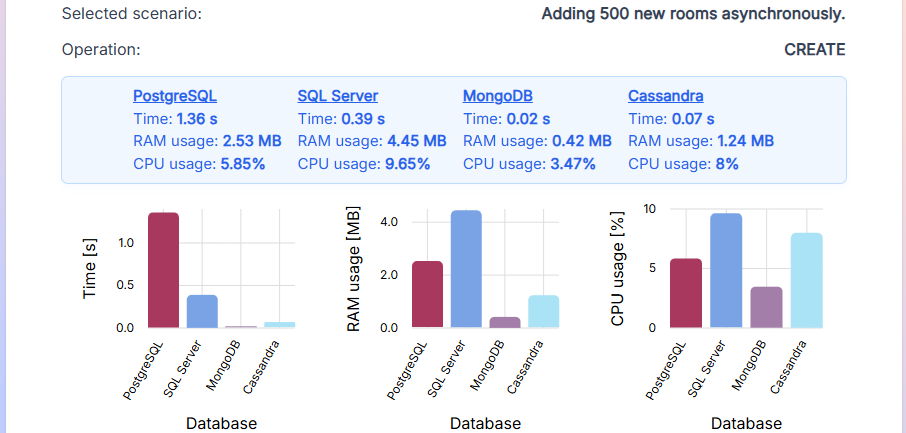
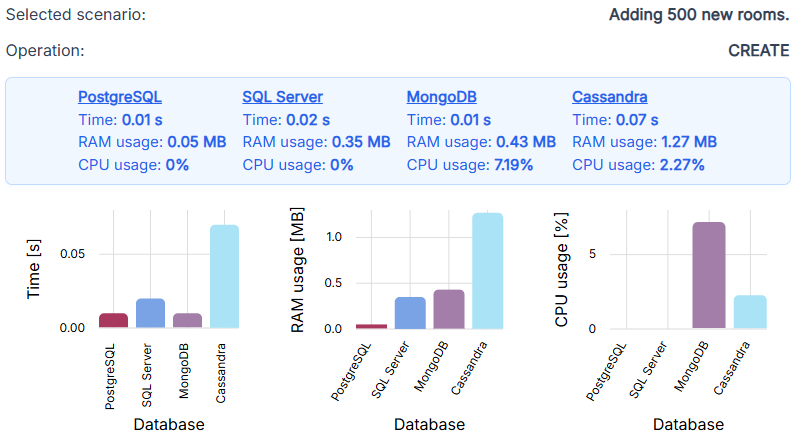
Results.

diff --git a/DBSystemComparator-API/Repositories/Implementations/SQLServerRepository.cs b/DBSystemComparator-API/Repositories/Implementations/SQLServerRepository.cs
@@ -75,28 +75,24 @@ namespace DBSystemComparator_API.Repositories.Implementations
 
         public async Task<List<int>> CreateClientsAsync(string firstName, string secondName, string lastName, string email, DateTime dob, string address, string phone, bool isActive, int count)
         {
-            var tasks = new List<Task<int>>();
-
+            var clients = new List<(string firstName, string secondName, string lastName, string email, DateTime dob, string address, string phone, bool isActive)>();
             for (int i = 0; i < count; i++)
             {
-                tasks.Add(CreateClientAsync(firstName, secondName, lastName, email, dob, address, phone, isActive));
+                clients.Add((firstName, secondName, lastName, email, dob, address, phone, isActive));
             }
-
-            var results = await Task.WhenAll(tasks);
-            return results.ToList();
+            await CreateClientsBatchAsync(clients);
+            return Enumerable.Repeat(0, count).ToList();
         }
 
         public async Task<List<int>> CreateRoomsAsync(int number, int capacity, double pricePerNight, bool isActive, int count)
         {
-            var tasks = new List<Task<int>>();
-
+            var rooms = new List<(int number, int capacity, double pricePerNight, bool isActive)>();
             for (int i = 0; i < count; i++)
             {
-                tasks.Add(CreateRoomAsync(number, capacity, pricePerNight, isActive));
+                rooms.Add((number, capacity, pricePerNight, isActive));
             }
-
-            var results = await Task.WhenAll(tasks);
-            return results.ToList();
+            await CreateRoomsBatchAsync(rooms);
+            return Enumerable.Repeat(0, count).ToList();
         }
 
         // READ

diff --git a/DBSystemComparator-API/Repositories/Implementations/PostgreSQLRepository.cs b/DBSystemComparator-API/Repositories/Implementations/PostgreSQLRepository.cs
@@ -73,22 +73,24 @@ namespace DBSystemComparator_API.Repositories.Implementations
 
         public async Task<List<int>> CreateClientsAsync(string firstName, string secondName, string lastName, string email, DateTime dob, string address, string phone, bool isActive, int count)
         {
-            var tasks = new List<Task<int>>();
+            var clients = new List<(string firstName, string secondName, string lastName, string email, DateTime dob, string address, string phone, bool isActive)>();
             for (int i = 0; i < count; i++)
-                tasks.Add(CreateClientAsync(firstName, secondName, lastName, email, dob, address, phone, isActive));
-
-            var results = await Task.WhenAll(tasks);
-            return results.ToList();
+            {
+                clients.Add((firstName, secondName, lastName, email, dob, address, phone, isActive));
+            }
+            await CreateClientsBatchAsync(clients);
+            return Enumerable.Repeat(0, count).ToList();
         }
 
         public async Task<List<int>> CreateRoomsAsync(int number, int capacity, double pricePerNight, bool isActive, int count)
         {
-            var tasks = new List<Task<int>>();
+            var rooms = new List<(int number, int capacity, double pricePerNight, bool isActive)>();
             for (int i = 0; i < count; i++)
-                tasks.Add(CreateRoomAsync(number, capacity, pricePerNight, isActive));
-
-            var results = await Task.WhenAll(tasks);
-            return results.ToList();
+            {
+                rooms.Add((number, capacity, pricePerNight, isActive));
+            }
+            await CreateRoomsBatchAsync(rooms);
+            return Enumerable.Repeat(0, count).ToList();
         }
 
         // READ

diff --git a/DBSystemComparator-API/Constants/Scenarios.cs b/DBSystemComparator-API/Constants/Scenarios.cs
@@ -26,13 +26,13 @@ namespace DBSystemComparator_API.Constants
         public static readonly ScenarioDTO CREATE_4 = new ScenarioDTO
         {
             Id = 4,
-            Description = "Adding 500 new clients asynchronously.",
+            Description = "Adding 500 new clients.",
             OperationId = (int)OPERATION.CREATE
         };
         public static readonly ScenarioDTO CREATE_5 = new ScenarioDTO
         {
             Id = 5,
-            Description = "Adding 500 new rooms asynchronously.",
+            Description = "Adding 500 new rooms.",
             OperationId = (int)OPERATION.CREATE
         };
 
